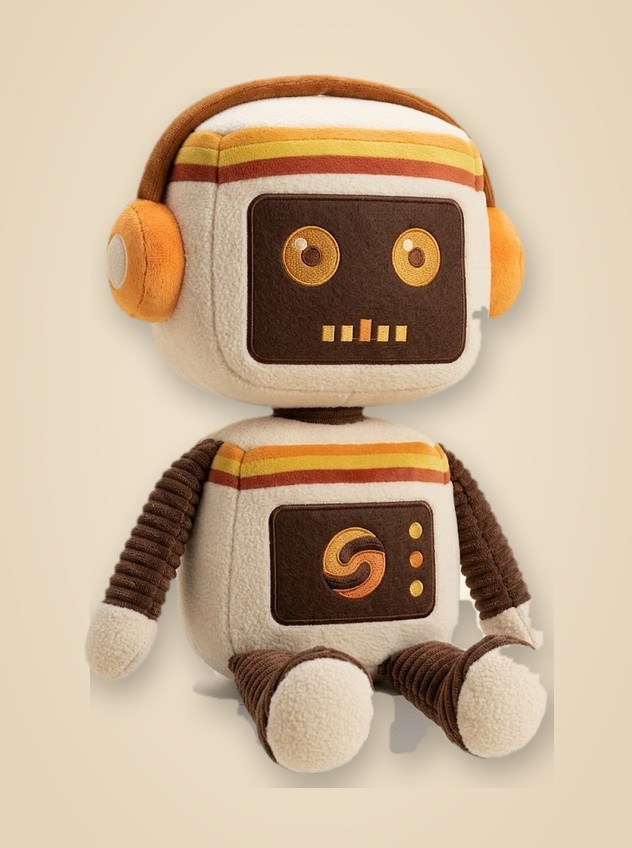
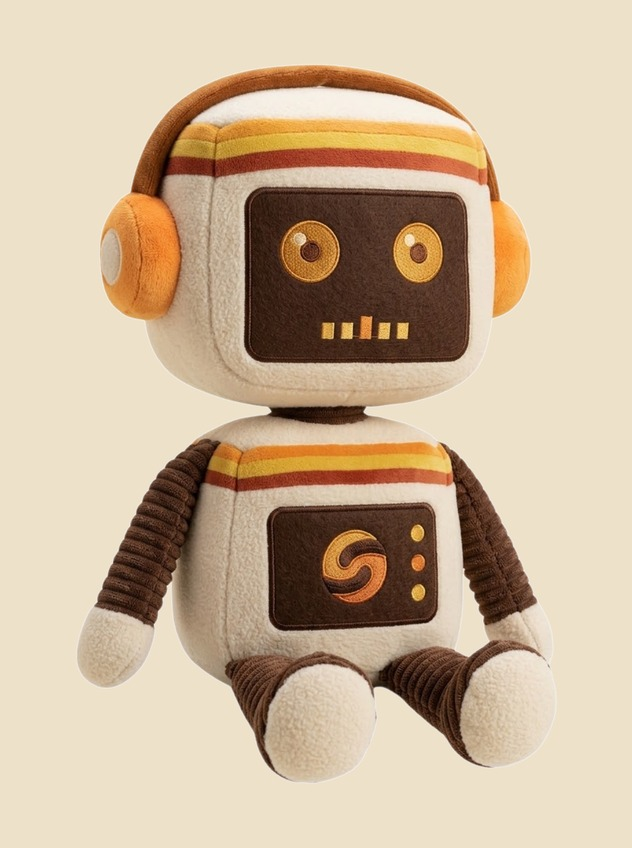
New plush and belt photos (belt gallery), product pages show whole photo

Changed region(s): [[0.1203, 0.4599, 0.9019, 0.9505], [0.1503, 0.0613, 0.8718, 0.5212], [0.2706, 0.4292, 0.3006, 0.4599]]

diff --git a/index.html b/index.html
@@ -851,7 +851,7 @@ h2.big{font-size:34px;font-weight:650;letter-spacing:-.035em;margin:6px 0 4px;te
 .mk-res{display:flex;justify-content:space-between;gap:8px;font-size:12px;color:var(--muted);margin:12px 2px 10px}.mk-res span{display:flex;gap:4px;align-items:center}
 .lc-list{display:flex;flex-direction:column;gap:16px}
 .lc{position:relative;border-radius:18px;overflow:hidden;background:var(--surface);border:1px solid var(--line);cursor:pointer}
-.g-host{position:relative}.g-ar{position:absolute;top:50%;transform:translateY(-50%);z-index:3;width:30px;height:30px;border-radius:50%;border:0;display:grid;place-items:center;background:rgba(255,248,238,.88);color:#3B2418;box-shadow:0 2px 8px rgba(0,0,0,.18);cursor:pointer;padding:0}.g-ar.pv{left:8px}.g-ar.nx{right:8px}.g-ar[hidden]{display:none}.lc-strip{touch-action:pan-x pan-y;display:flex;overflow-x:auto;scroll-snap-type:x mandatory;scrollbar-width:none;-webkit-overflow-scrolling:touch}.lc-strip::-webkit-scrollbar{display:none}
+.g-host{position:relative}.pd-gal .pd-art{background:#EEE1CA!important}.sheet .pd-gal .pd-art .ph-img.ph-img{background-size:contain!important;background-position:50% 50%!important}.g-ar{position:absolute;top:50%;transform:translateY(-50%);z-index:3;width:30px;height:30px;border-radius:50%;border:0;display:grid;place-items:center;background:rgba(255,248,238,.88);color:#3B2418;box-shadow:0 2px 8px rgba(0,0,0,.18);cursor:pointer;padding:0}.g-ar.pv{left:8px}.g-ar.nx{right:8px}.g-ar[hidden]{display:none}.lc-strip{touch-action:pan-x pan-y;display:flex;overflow-x:auto;scroll-snap-type:x mandatory;scrollbar-width:none;-webkit-overflow-scrolling:touch}.lc-strip::-webkit-scrollbar{display:none}
 .lp-ph{position:relative;flex:none;width:100%;aspect-ratio:1;scroll-snap-align:start;overflow:hidden;background:var(--surface-2)}.lp-ph>img{display:block;width:100%;height:100%;object-fit:cover;pointer-events:none;user-select:none}
 .lp-k{position:absolute;left:0;top:0;width:720px;height:720px;transform-origin:0 0;isolation:isolate;pointer-events:none}
 .lp-cov{position:absolute;left:0;top:0;width:600px;height:600px;transform-origin:0 0;filter:brightness(.94) saturate(.92)}.lp-cov .art{position:absolute;inset:0;width:100%!important;height:100%!important;border-radius:0!important;box-shadow:none!important;background-size:cover}
@@ -3997,7 +3997,7 @@ const PRODUCTS=[
  {id:'tee',n:'Selector Tee',p:32,k:'cloth',pod:1,sizes:['S','M','L','XL'],cols:[['black','Washed black','#1E1C1B'],['oatmeal','Oatmeal','#D6CAB2'],['chocolate','Chocolate','#462C1E'],['rust','Rust','#96422C']],d:'Heavyweight washed tee. A small S on the chest, the Selector in a 70s sunset across the back, a tiny embroidered Selector on the sleeve and a woven S neck tag.'},
  {id:'hoodie',n:'Sunset S Hoodie',p:62,k:'cloth',pod:1,sizes:['S','M','L','XL'],d:'450gsm garment-dyed chocolate hoodie. Embroidered S on the chest, a washed record print on the back over three record-spine stripes, a tiny Selector stitched on the cuff, a woven S neck label and orange-tipped drawcords.'},
  {id:'cap',n:'Corduroy S Cap',p:28,k:'cloth',sizes:['One size'],d:'Washed black six-panel corduroy cap. Embroidered S on the front, burnt-orange under-brim, contrast brim stitching, brass slide buckle and a three-stripe tab on the back.'},
- {id:'belt',n:'S Buckle Belt',p:45,k:'cloth',sizes:['S','M','L'],single:1,d:'Tan leather belt with a sculpted S buckle in brushed bronze.',nw:1},
+ {id:'belt',n:'S Buckle Belt',p:45,k:'cloth',sizes:['S','M','L'],gal:3,d:'Tan leather belt with a sculpted S buckle in brushed bronze.',nw:1},
  {id:'plush',n:'Little Selector',p:30,k:'acc',single:1,d:'A 35cm soft Selector in fleece and corduroy, with embroidered eyes, VU-meter mouth and the S on his chest panel.',nw:1},
  {id:'slipmat',n:'Sunset Slipmat',p:18,k:'acc',d:'12" dense black felt slipmat with the Stack S in sunset colours and three thin rings. Non-slip underside and a woven S label.'},
  {id:'crate',n:'Birch Record Crate',p:48,k:'acc',single:1,d:'Holds about 60 LPs. Finger-jointed birch ply, engraved S, painted sunset stripes, antique-brass corners and a leather tab stamped with the S.'},
@@ -4005,7 +4005,7 @@ const PRODUCTS=[
 ];
 const SHOP_IMG=k=>(window.STACK_SHOP_IMG&&window.STACK_SHOP_IMG[k])||('shop/'+k+'.jpg');
 const prod=id=>PRODUCTS.find(p=>p.id===id);CART=CART.filter(l=>prod(l.id));
-function prodPics(p,col){if(p.gal){const c=col||p.cols[0][0];return [...Array(p.gal)].map((_,i)=>({src:SHOP_IMG(p.id+'-'+c+'-'+(i+1)),st:'background-size:cover;background-position:50% 50%'}))}if(p.imgs)return p.imgs.map(k=>({src:SHOP_IMG(k),st:'background-size:contain'}));const src=SHOP_IMG(p.cols?p.id+'-'+(col||p.cols[0][0]):p.id);
+function prodPics(p,col){if(p.gal){const c=p.cols?'-'+(col||p.cols[0][0]):'';return [...Array(p.gal)].map((_,i)=>({src:SHOP_IMG(p.id+c+'-'+(i+1)),st:'background-size:cover;background-position:50% 50%'}))}if(p.imgs)return p.imgs.map(k=>({src:SHOP_IMG(k),st:'background-size:contain'}));const src=SHOP_IMG(p.cols?p.id+'-'+(col||p.cols[0][0]):p.id);
  if(p.single)return [{src,st:'background-size:cover;background-position:50% 50%'}];return [{src,st:'background-position:0% 50%'},{src,st:'background-position:100% 50%'}]}
 const prodArt=(p,side,col)=>{const pc=prodPics(p,col),x=pc[side==='back'?Math.min(1,pc.length-1):0];return `<span class="ph-img${p.imgs?' sq':''}" style="background-image:url('${x.src}');${x.st}" role="img" aria-label="${p.n}"></span>`};
 
